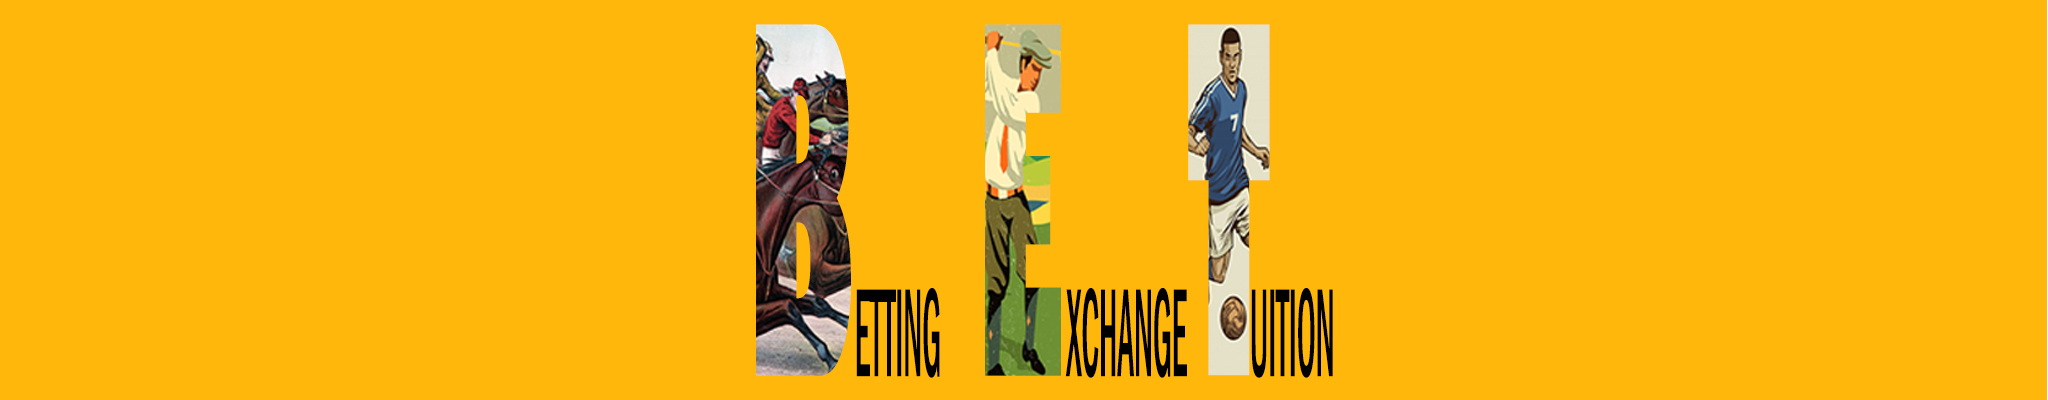
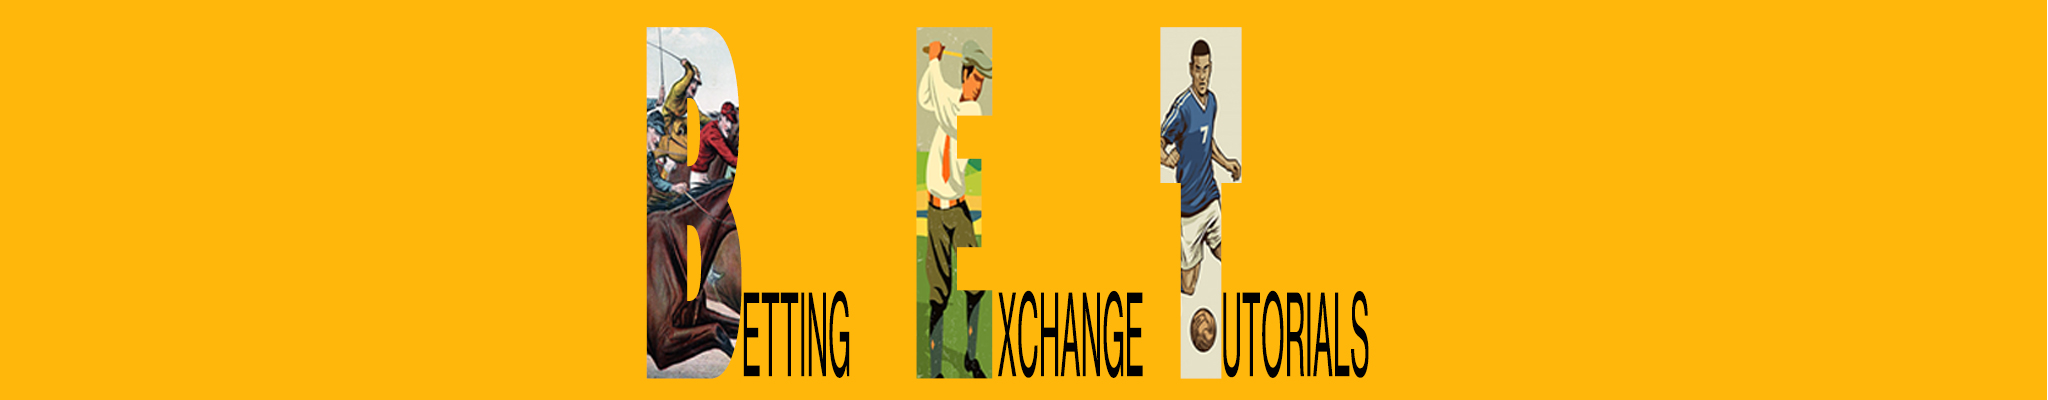
amendment to html header

Changed region(s): [[0.3125, 0.06, 0.6875, 0.96]]

diff --git a/index.html b/index.html
@@ -7,7 +7,7 @@
     <link rel="stylesheet" href="assets/css/style.css">
     <link rel="stylesheet" href="https://stackpath.bootstrapcdn.com/bootstrap/4.4.1/css/bootstrap.min.css" type="text/css" />
     <link rel="stylesheet" href="https://stackpath.bootstrapcdn.com/font-awesome/4.7.0/css/font-awesome.min.css" type="text/css" />
-    <title>Betting Exchange Tuition</title>
+    <title>Betting Exchange Totorials</title>
 </head>
 
 <body>
